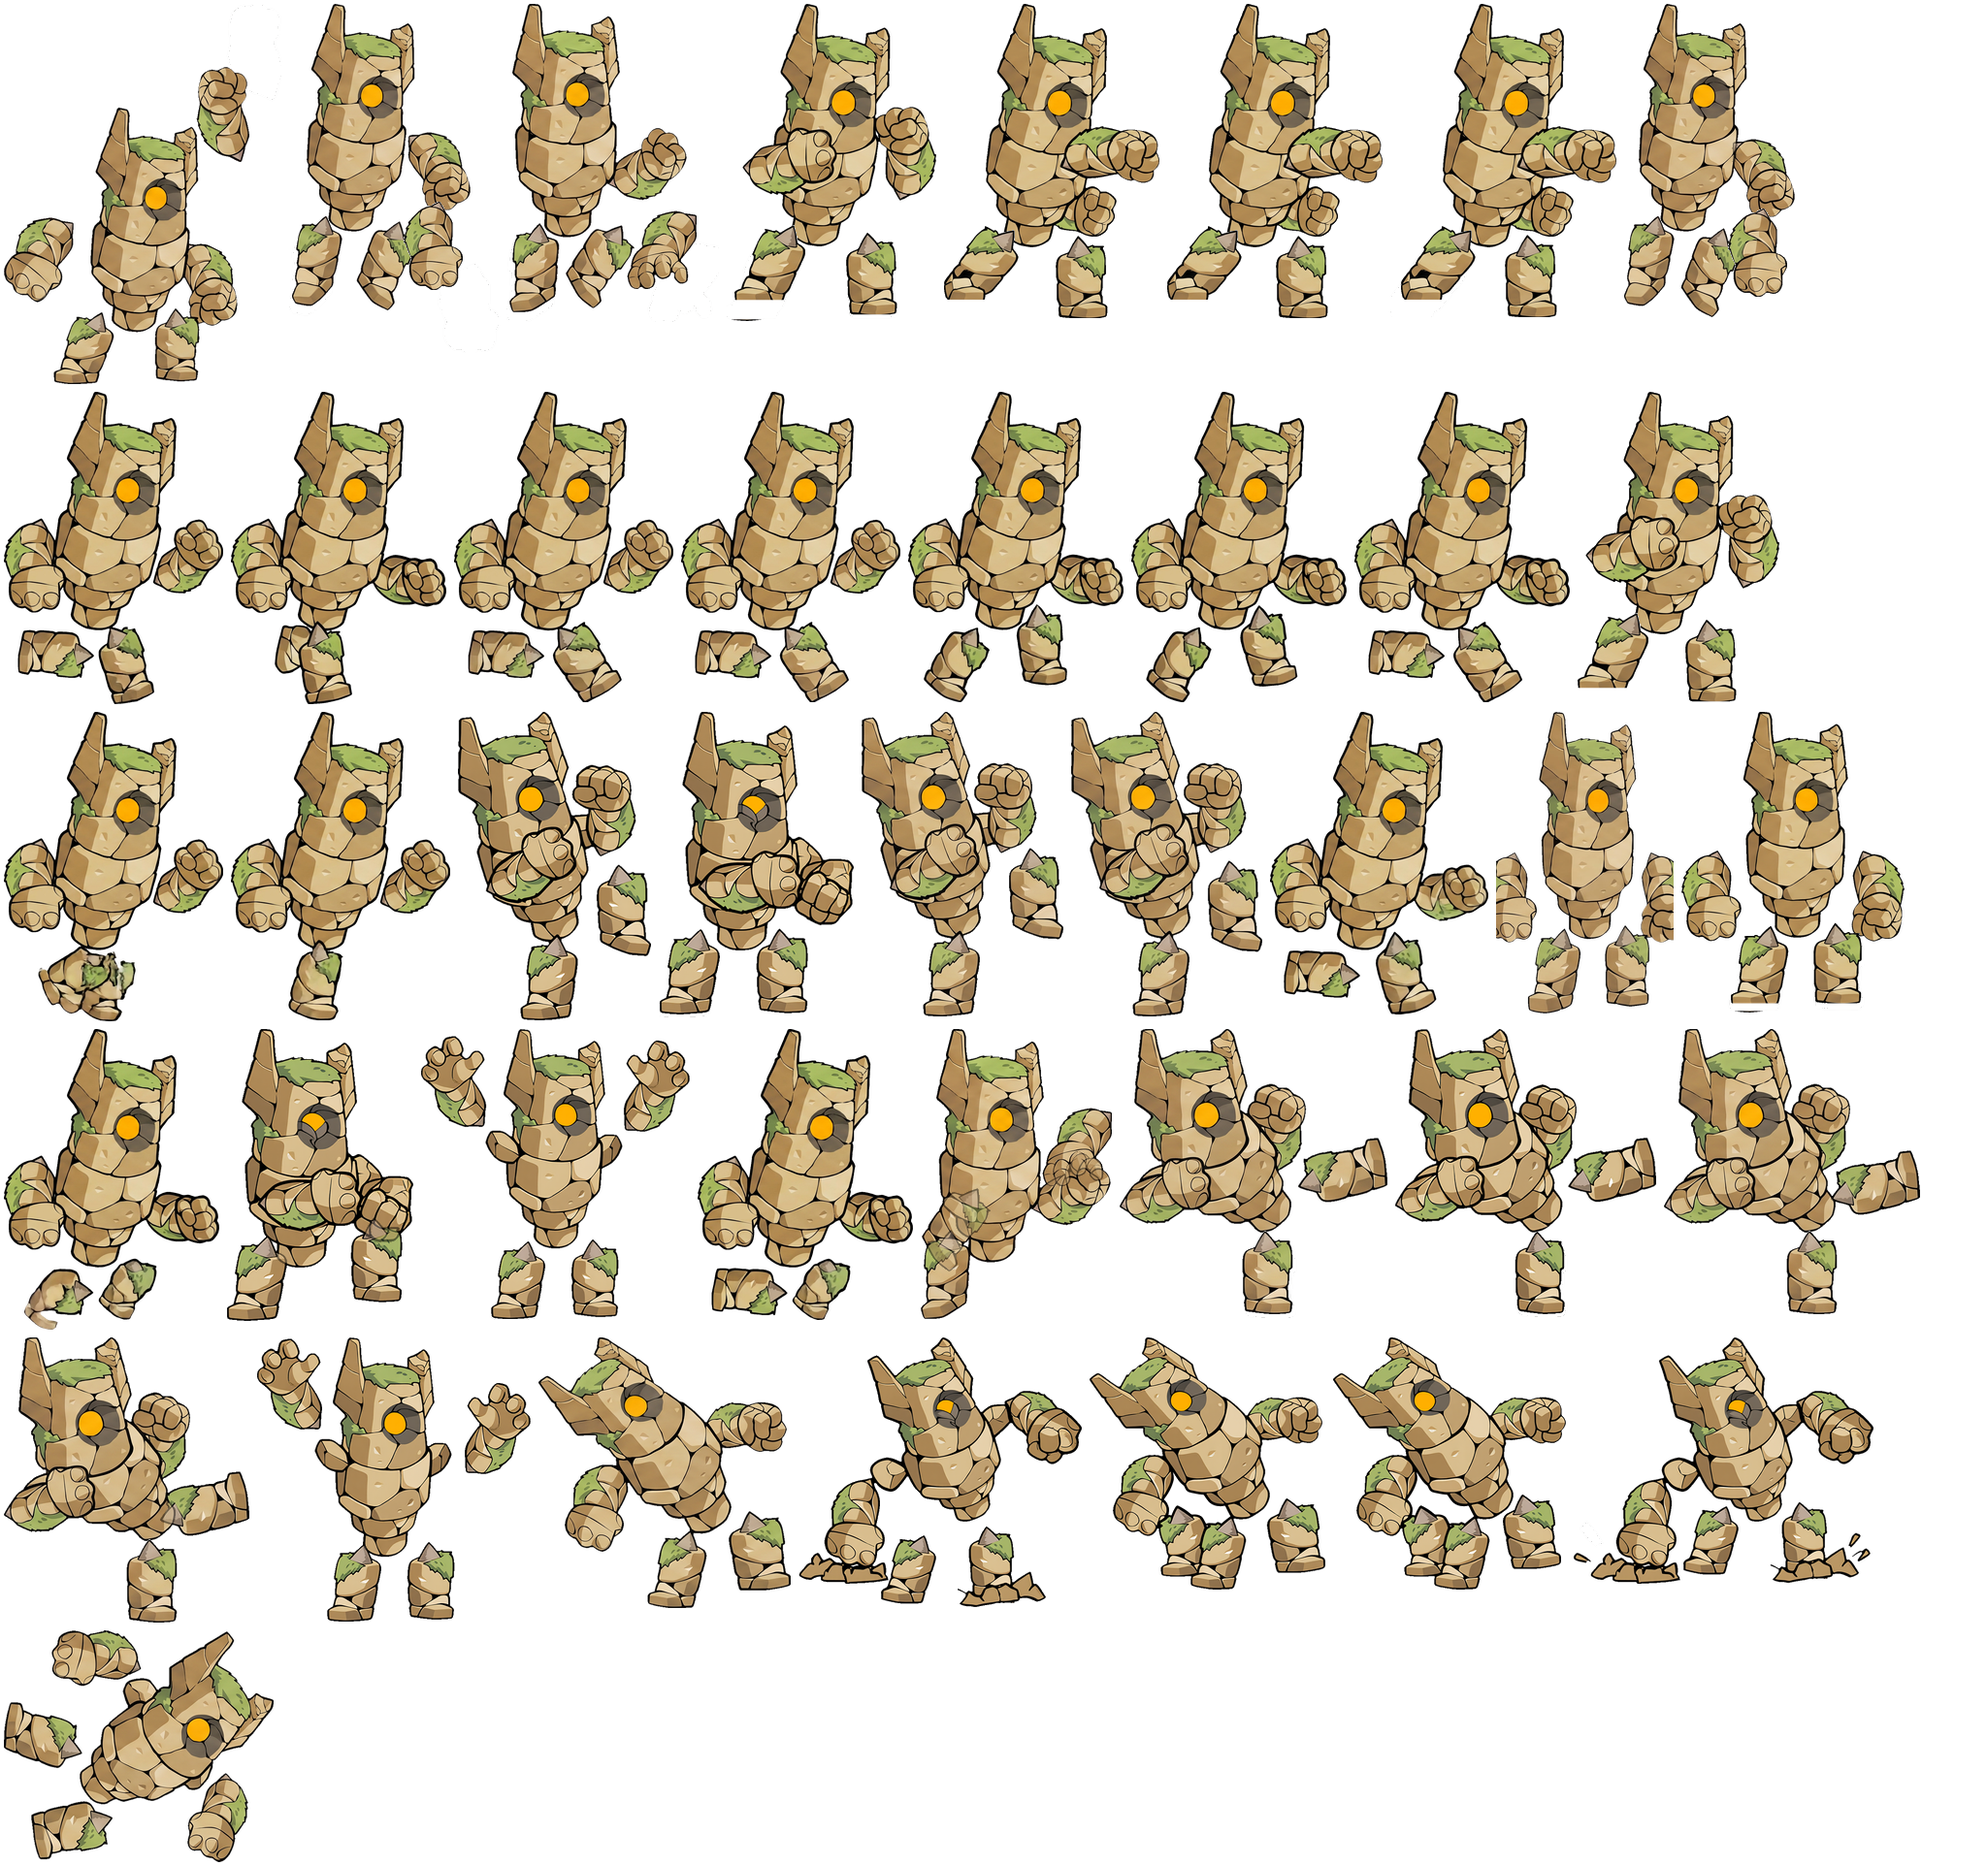
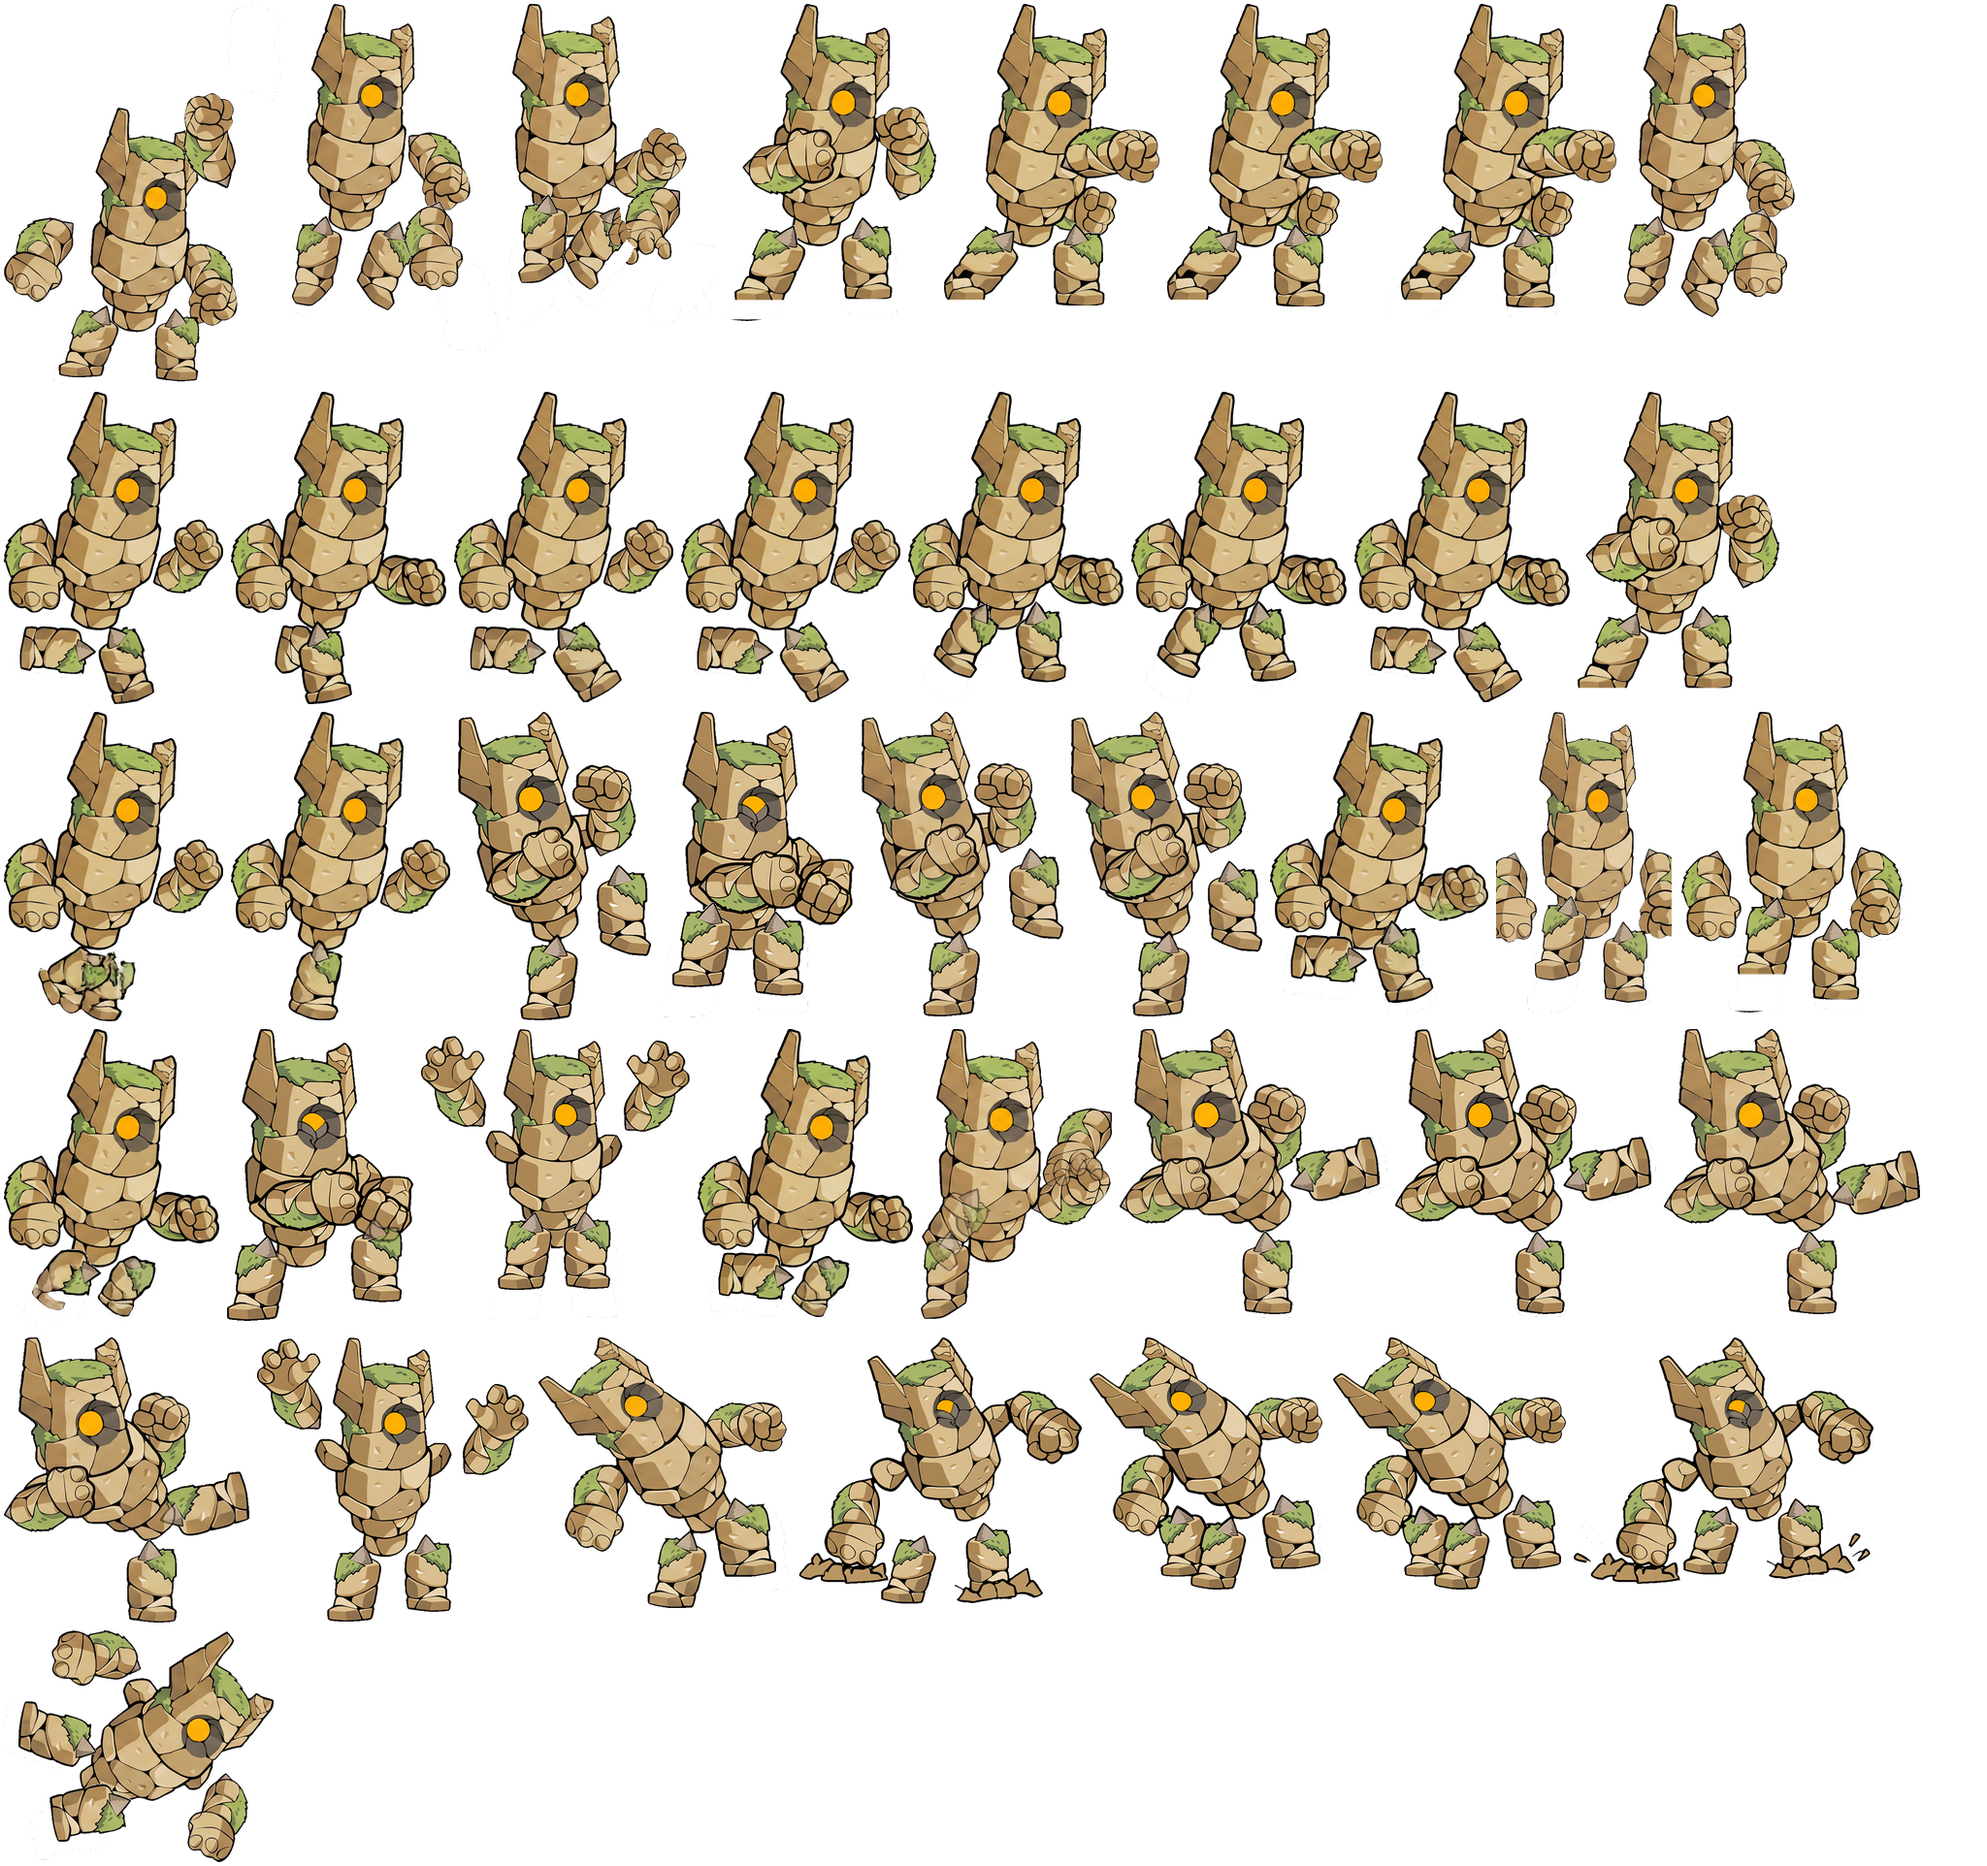
Bloom se apaga de verdad en gama baja, y Kor menos desarmado en el salto
detectLowQuality() existía pero no la llamaba nadie: el Bloom (el filtro
más caro del render) corría siempre, sin importar el hardware. Ahora
glowLayer sólo lo lleva si detectLowQuality() da false.

Kor tiene los miembros sueltos por diseño (estilo Rayman), pero en el
salto un puño quedaba a 50 unidades del cuerpo — se leía como una pieza
desprendida, no como el estilo. Corrido scripts/piezas-sueltas.py
(ya existía, hecho para esto) con --acercar 40 sobre toda la hoja de
Kor, no sólo el salto. hojas.webp regenerado desde el .png corregido.

Sigue pendiente: jump[1] y jump[3] de Kor tienen un brazo directamente
ausente (no es una pieza lejos, es contenido que nunca se generó) —
piezas-sueltas.py no puede arreglar eso porque no hay nada que acercar.
Hace falta recortar-accion.py con un clip nuevo de Kling para esa
acción puntual.

Agregado scripts/kor-jump-frames.mjs para diagnóstico visual cuadro a
cuadro (mismo patrón que mirar.mjs).

Claude-Session: https://claude.ai/code/session_01LA56Djix2JMX9isxBcfBkY

diff --git a/src/render/game.ts b/src/render/game.ts
@@ -45,6 +45,7 @@ import { loadSheets, unloadSheets } from '../art/loadSheets';
 import type { FighterSheets } from '../art/loadSheets';
 import { UMBRAL_GIRO_FRENTE, createSpriteFighterView } from '../art/spriteFighter';
 import { ROSTER, characterFor } from '../game/roster';
+import { detectLowQuality } from '../quality';
 import {
   beams, burst, createFx, drawFx, dust, flash, impact, orb, shards, slash,
   trail, updateFx, wave,
@@ -660,13 +661,19 @@ export async function startGame(
   const glowFx = new Graphics();
   const glowLayer = new Container();
   glowLayer.addChild(glowFx);
-  glowLayer.filters = [new AdvancedBloomFilter({
-    threshold: 0.35,
-    bloomScale: 1.25,
-    brightness: 1.05,
-    blur: 5,
-    quality: 4,
-  })];
+  // El Bloom es el filtro más caro del render: recompone la capa entera por
+  // cuadro. `detectLowQuality()` existía para saltearlo en gama media/baja
+  // pero nadie la llamaba — quedó como código muerto del pivot a Pixi y el
+  // Bloom corría siempre, sin importar el hardware.
+  if (!detectLowQuality()) {
+    glowLayer.filters = [new AdvancedBloomFilter({
+      threshold: 0.35,
+      bloomScale: 1.25,
+      brightness: 1.05,
+      blur: 5,
+      quality: 4,
+    })];
+  }
   world.addChild(glowLayer);
 
   /**

diff --git a/src/quality.ts b/src/quality.ts
@@ -1,9 +1,10 @@
 /**
- * El modo de baja calidad se resuelve UNA vez, en el montaje. Cambiar
- * `MeshToonMaterial` por `MeshBasicMaterial` en caliente fuerza compilar y
- * linkear un `WebGLProgram` nuevo y produce un freeze visible, así que el
- * toggle de la UI remonta la escena entera con una `key` en vez de mutar
- * materiales existentes.
+ * Se resuelve UNA vez, al montar `startGame` (`src/render/game.ts`), y decide
+ * si se agrega el filtro `AdvancedBloomFilter` a `glowLayer` o no — es el
+ * filtro más caro del render y en gama media/baja se nota. No hay toggle de
+ * UI ni remontaje en caliente: Pixi no tiene el costo de recompilar
+ * `WebGLProgram` que tenía cambiar de material en three.js, así que no hace
+ * falta.
  */
 export function detectLowQuality(): boolean {
   if (typeof navigator === 'undefined') return false;
